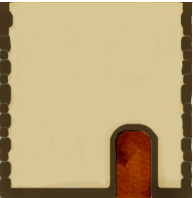
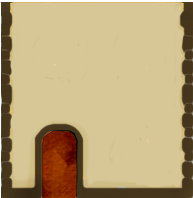
window anim fixes

diff --git a/src/houseBuilder.js b/src/houseBuilder.js
@@ -87,17 +87,17 @@ HouseBuilder.prototype.getTwoBoysFirstBad = function(x, y, houseNum) {
 
     this._addHousePart("houseDarkWalls", house, x, y, houseType, houseNum);
 
-    houseSprite = this._addHousePart("windowCheckered", house, x + 30, y + 125, houseType, houseNum);
+    houseSprite = this._addHousePart("windowCheckered", house, x + 115, y + 125, houseType, houseNum);
     houseSprite.floor = 1;
     this._createHappyBoyAnim(houseSprite, house, 1);
     this._createHappyEvilAnim(houseSprite, house, 1);
 
     houseSprite = this._addHousePart("windowCheckered", house, x + 30, y + 35, houseType, houseNum);
+
+    houseSprite = this._addHousePart("windowCheckered", house, x + 115, y + 35,houseType, houseNum);
     houseSprite.floor = 2;
     this._createHappyBoyAnim(houseSprite, house, 2);
     this._createHappyEvilAnim(houseSprite, house, 2);
-
-    houseSprite = this._addHousePart("windowCheckered", house, x + 115, y + 35,houseType, houseNum);
     this._createBabkaAnim(houseSprite, house);
 
     this._addHousePart("roof", house, x - 8, y - 93, houseType, houseNum);
@@ -114,17 +114,17 @@ HouseBuilder.prototype.getTwoBoysFirstGood = function(x, y, houseNum) {
 
     this._addHousePart("houseBeigeWalls", house, x, y, 0, houseNum);
 
-    houseSprite = this._addHousePart("windowCheckered", house, x + 30, y + 125, houseType, houseNum);
+    houseSprite = this._addHousePart("windowCheckered", house, x + 115, y + 125, houseType, houseNum);
     houseSprite.floor = 1;
     this._createHappyBoyAnim(houseSprite, house, 1);
     this._createHappyEvilAnim(houseSprite, house, 1);
 
     houseSprite = this._addHousePart("windowCheckered", house, x + 30, y + 35, houseType, houseNum);
+
+    houseSprite = this._addHousePart("windowCheckered", house, x + 115, y + 35, houseType, houseNum);
     houseSprite.floor = 2;
     this._createHappyBoyAnim(houseSprite, house, 2);
     this._createHappyEvilAnim(houseSprite, house, 2);
-
-    houseSprite = this._addHousePart("windowCheckered", house, x + 115, y + 35, houseType, houseNum);
     this._createBabkaAnim(houseSprite, house);
 
     this._addHousePart("roof", house, x - 8, y - 93, houseType, houseNum);
@@ -141,7 +141,7 @@ HouseBuilder.prototype.getOneBoyGood = function(x, y, houseNum) {
 
     this._addHousePart("houseBeigeWalls", house, x, y, 0, houseNum);
 
-    houseSprite = this._addHousePart("windowCheckered", house, x + 30, y + 125, houseType, houseNum);
+    houseSprite = this._addHousePart("windowCheckered", house, x + 115, y + 125, houseType, houseNum);
     this._createHappyBoyAnim(houseSprite, house);
     this._createHappyEvilAnim(houseSprite, house);
     this._createBabkaAnim(houseSprite, house);
@@ -159,7 +159,7 @@ HouseBuilder.prototype.getOneBoyBad = function(x, y, houseNum) {
 
     this._addHousePart("houseDarkWalls", house, x, y, 0, houseNum);
 
-    houseSprite = this._addHousePart("windowCheckered", house, x + 30, y + 125, houseType, houseNum);
+    houseSprite = this._addHousePart("windowCheckered", house, x + 115, y + 125, houseType, houseNum);
     this._createHappyBoyAnim(houseSprite, house);
     this._createHappyEvilAnim(houseSprite, house);
     this._createBabkaAnim(houseSprite, house);
